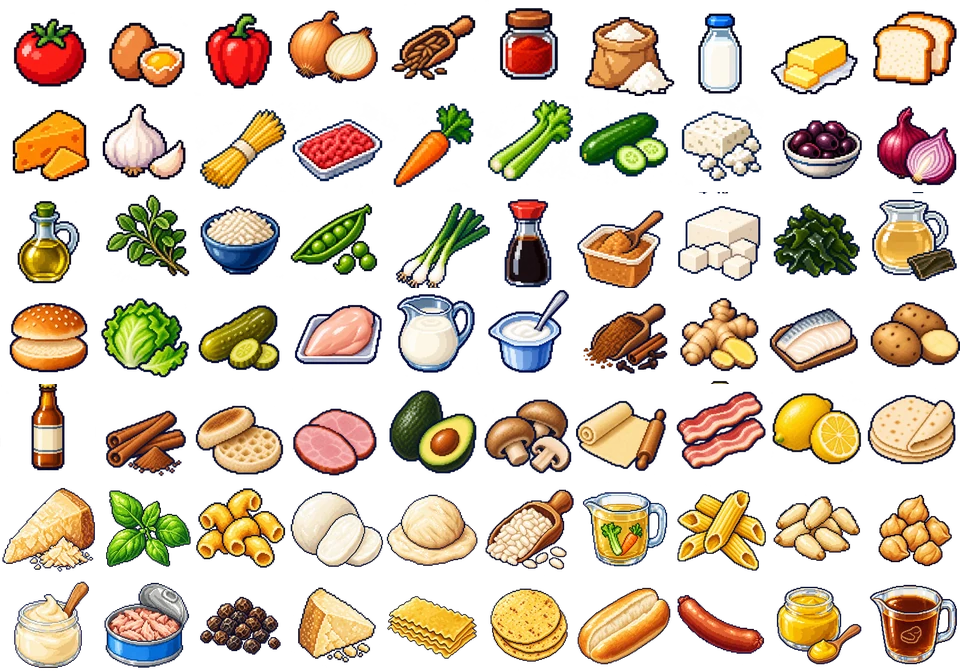
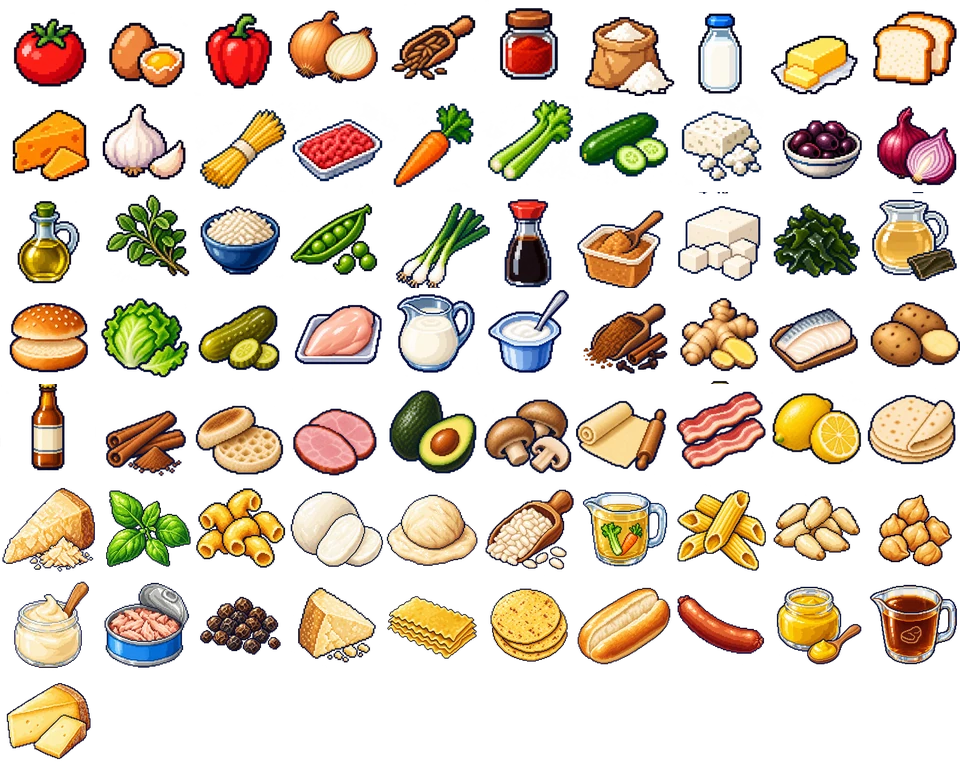
Complete French onion soup artwork set

diff --git a/WORK_LOG.md b/WORK_LOG.md
@@ -6,9 +6,9 @@ Every AI must read this file before working and update it throughout the session
 
 - Current milestone: game/ is playable with Daily dish (US Eastern midnight, shared clue order, saved on device) and Endless (shuffled deck, excludes today's daily, not saved). Browser-verified in emulation; real-device keyboards untested.
 - Product: daily meal guessing plus endless mode. Approved desktop B split layout and mobile native-keyboard-aware layout.
-- Available: 45-meal roster, 31 meal illustrations, 70 of 103 canonical ingredient icons, 11 draft custom animation groups, mockups, prompts, visual prototypes and normalized asset map.
+- Available: 45-meal roster, 32 meal illustrations, 71 of 103 canonical ingredient icons, 11 draft custom animation groups, mockups, prompts, visual prototypes and normalized asset map.
 - Implemented: responsive game, daily/endless, daily persistence, alias suggestions, streaks, sound and lazy-loaded art. Test deploy live at https://meal-lion-playtest.netlify.app (2026-10-21, public, no password); final product decisions remain open. reference/meal-lion-demo/pilot.html remains a visual demo that exposes answers.
-- Repository/branch/checkpoint: codex/missing-food-art; latest existing checkpoint 954212a (Hot dog set), pushed to origin/main and origin/codex/missing-food-art. Remote: origin = https://github.com/EricTalanoa/meal-lion (private); main, feat/three-meal-game and codex/missing-food-art pushed 2026-10-19.
+- Repository/branch/checkpoint: codex/missing-food-art; latest existing checkpoint d77c5b6 before French onion soup set, pushed to origin/main and origin/codex/missing-food-art. Remote: origin = https://github.com/EricTalanoa/meal-lion (private); main, feat/three-meal-game and codex/missing-food-art pushed 2026-10-19.
 - Asset automation: cloud task 6ad7bfe9c2408191b650b820afd8a386 was verified PAUSED on 2026-10-21; local heartbeat is PAUSED to prevent duplicates. 41 icons / 18 meals queued. Outputs require later local import. See docs/ASSET_AUTOMATION.md. Recurring queue/resume behavior remains untested.
 - Confirmed rules: ingredient-count guess budget, one free clue (zero optional), hidden total by default (showing totals is optional), with explicit 'all ingredients revealed' and 'last guess' cues; reveal order shuffled every round; skip policy approved; typo-tolerant suggestions. Open decisions: aliases, timezone/schedule, scoring and storage. See docs/PRODUCT.md.
 - Images: startup downloads kitchen, chef and one 261 KB sheet of all 66 ingredient icons (tools/build-icon-atlas.py), so clue icons no longer pop in; the rest loads on first use; published images are lossless WebP copies in assets/web/ (21.4 MB total). See the 2026-10-19 image-load entry.
@@ -320,3 +320,13 @@ Every AI must read this file before working and update it throughout the session
 - GitHub confirmed hot dog checkpoint 954212a pushed to both codex/missing-food-art and main (fast-forward from 8f5e6e4). Local main also advanced without changing the active working branch. No force push.
 - Cottage pie set verification: both 1254x1254 RGBA sources have alpha 0-255; solid bounds are within canvas. Lossless WebP verification passed; 70-icon sheet and 31 meal thumbnails regenerated. All 79 tests passed; build 102 files / 43.9 MB. No browser/device review or deployment. Next remaining 14 meals / 33 ingredient icons; prioritize Gruyere plus French onion soup, and import existing cloud Guanciale/Pepperoni before generating duplicates.
 - Cottage pie checkpoint cdb3720 successfully pushed to origin/codex/missing-food-art and origin/main; local main fast-forwarded to the same commit. Both asset sets are backed up on GitHub. No force push or deployment. Ongoing workflow saved in docs/GIT_AND_CONTINUITY.md.
+
+### 2026-10-22 America/Los_Angeles — Codex — French onion soup set
+- User requested continued work. Branch codex/missing-food-art; latest checkpoint d77c5b6, verified on origin/main and origin/codex/missing-food-art. Starting Gruyere ingredient and French onion soup (34), reusing mapped Beef stock.
+- Follow established pixel-art direction, save exact prompts and sources, optimize, verify, commit, fast-forward main and push each completed set. No deployment.
+
+- Gruyere source generated, visually inspected and saved; no clipping or lettering. Soup meal pending.
+- French onion soup generated and saved with both bowl handles visible. Both assets mapped, exact prompts saved; coverage 32/45 meals and 71/103 ingredient icons. Optimizing before checkpoint checks.
+- Next independent set planned while soup copies process: Paneer, Spinach and Palak paneer (40). Sources will remain outside the soup checkpoint until that set is complete.
+- Paneer and Spinach draft sources generated and visually inspected; saved with planned exact prompts in palak-prompts.json, still unmapped and excluded from soup checkpoint.
+- Soup set checks: 1254x1254 RGBA, alpha 0-255, solid bounds inside canvas for both. Optimizer verified lossless copies, refreshed 71-icon atlas and 32 thumbnails. All 79 tests pass; build 105 files / 45.2 MB. Browser/device and final halo review not performed; all art draft. Preparing merge/push.

diff --git a/docs/ASSETS.md b/docs/ASSETS.md
@@ -2,7 +2,7 @@
 
 All source artwork and generation prompts are in reference/. Do not overwrite originals during cleanup. See assets/asset-map.json for a consistent map; older batch manifests use different structures. Cell indexes are zero-based row-major, with paths relative to this package root. Ingredient entries marked preferred are the suggested default; the old purple Onion icon is retained as a variant, while the yellow Onion is preferred and Red onion remains its own label.
 
-There are 31/45 meal illustrations, 70/103 canonical ingredient icons and 11 custom sequence groups. Chef neutral/blink/thinking/celebrate poses are separate. An animation group means a draft strip of distinct key poses, not a finished smooth animation. Pancake and grilled-cheese sequences share a 3-by-2 atlas. The other interactions are onion, tomato, egg, milk, cheese, dough, mushroom, rice and garlic. Existing demos add procedural steam, particles and ingredient movement.
+There are 32/45 meal illustrations, 71/103 canonical ingredient icons and 11 custom sequence groups. Chef neutral/blink/thinking/celebrate poses are separate. An animation group means a draft strip of distinct key poses, not a finished smooth animation. Pancake and grilled-cheese sequences share a 3-by-2 atlas. The other interactions are onion, tomato, egg, milk, cheese, dough, mushroom, rice and garlic. Existing demos add procedural steam, particles and ingredient movement.
 
 Recommended interaction routing: Onion -> onion; Tomato -> tomato; Egg -> egg; Milk -> milk; Cheddar -> cheese; Pizza dough -> dough; Mushroom -> mushroom; Rice or Arborio rice -> rice; Garlic -> garlic. These are integration suggestions; most newer sequences are not wired into the pilot. Use neutral/general reactions for missing interactions until dedicated ones exist. A cheddar-colored animation is not automatically suitable for every cheese.
 

diff --git a/assets/COVERAGE.md b/assets/COVERAGE.md
@@ -1,6 +1,6 @@
 # Artwork coverage
 
-31/45 meal illustrations; 70/103 canonical ingredient icons; 11 custom animation groups. All draft.
+32/45 meal illustrations; 71/103 canonical ingredient icons; 11 custom animation groups. All draft.
 
 | ID | Meal | Meal art | Missing ingredient icons |
 |---|---|---|---|
@@ -37,7 +37,7 @@
 | 31 | Chili con carne | Missing | Kidney beans, Chili powder |
 | 32 | Cottage pie | Available | None |
 | 33 | Chicken pot pie | Missing | Puff pastry, Chicken stock |
-| 34 | French onion soup | Missing | Gruyère |
+| 34 | French onion soup | Available | None |
 | 35 | Tomato soup | Available | None |
 | 36 | Miso soup | Available | None |
 | 37 | Butter chicken | Available | None |
